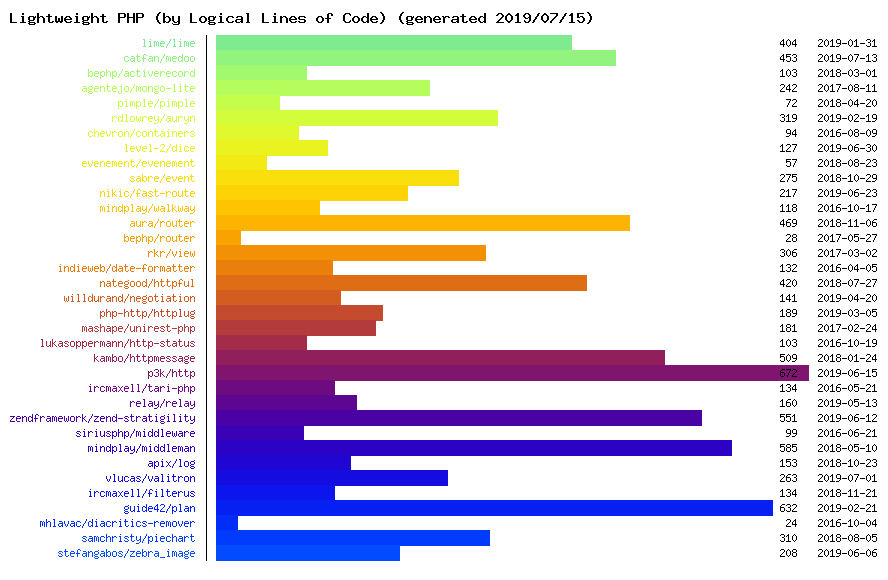
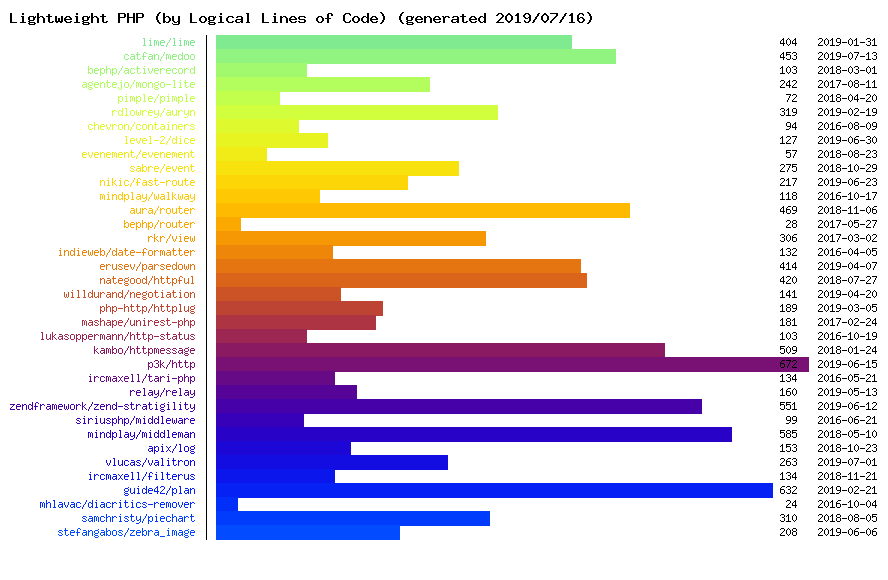
Add parsedown

Changed region(s): [[0.2432, 0.0621, 1.0, 0.9931], [0.2432, 0.0931, 0.7297, 0.5276], [0.0304, 0.0621, 0.2128, 0.9621]]

diff --git a/README.md b/README.md
@@ -50,6 +50,7 @@ List of lightweight PHP libraries.
 
 * [php-view](https://github.com/rkrx/php-view) - More secure and easy to use templating system for php5.4+
 * [date-formatter](https://github.com/indieweb/date-formatter-php) - Render dates and date ranges in a human-readable format
+* [parsedown](https://github.com/erusev/parsedown) - Better Markdown Parser in PHP
 
 ## HTTP
 
